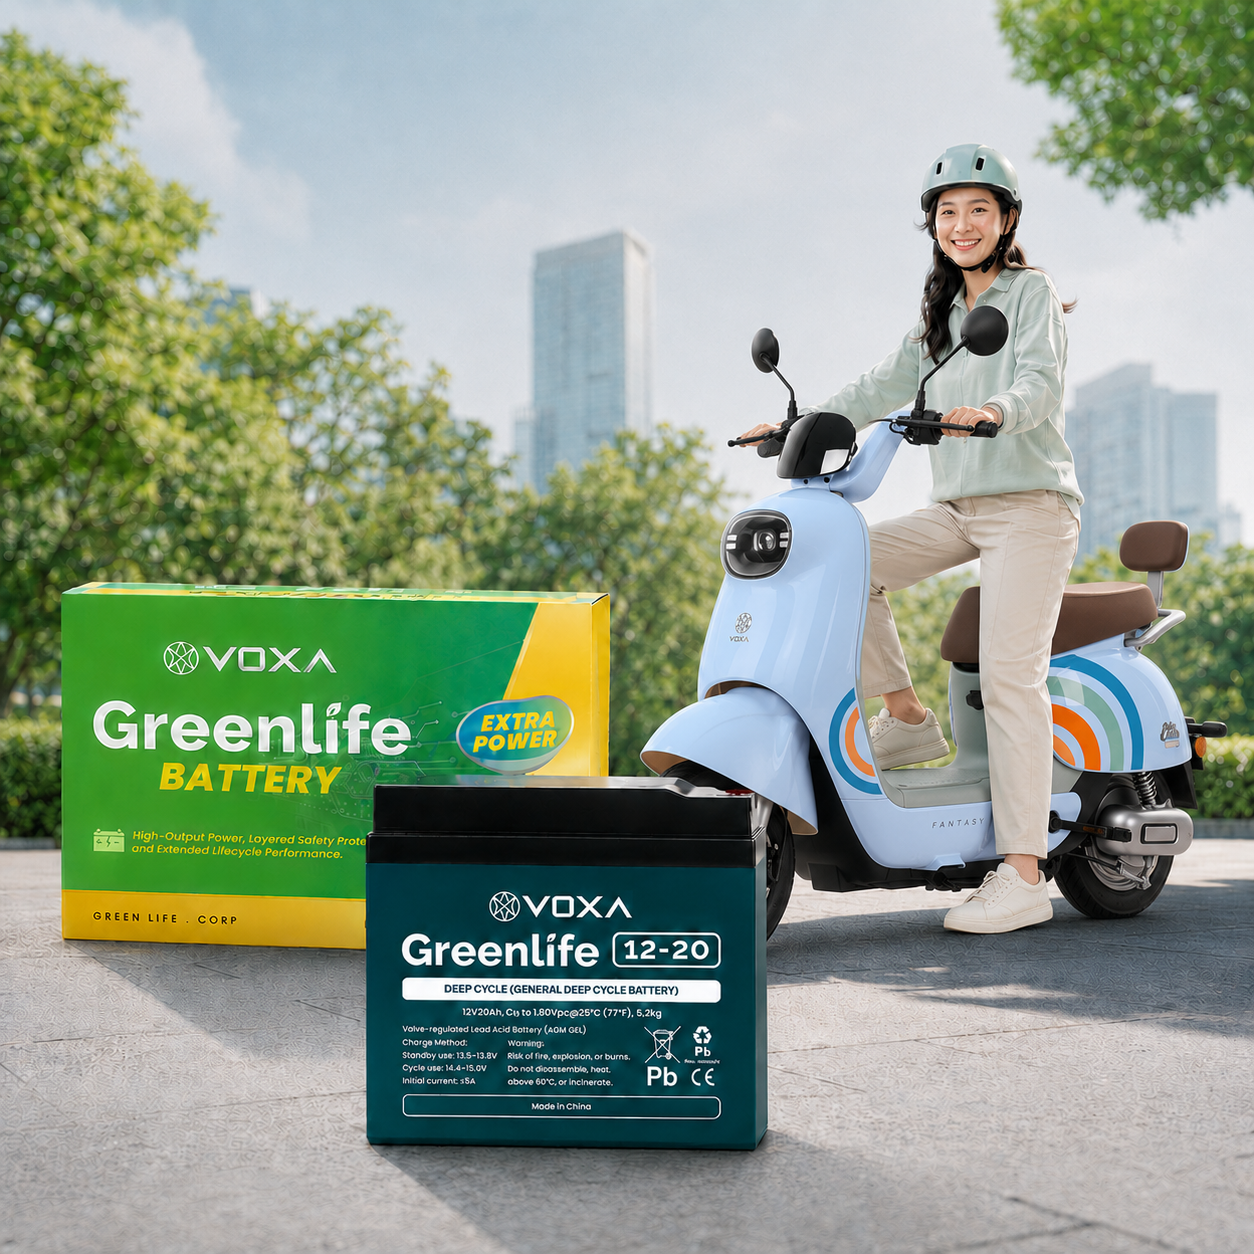
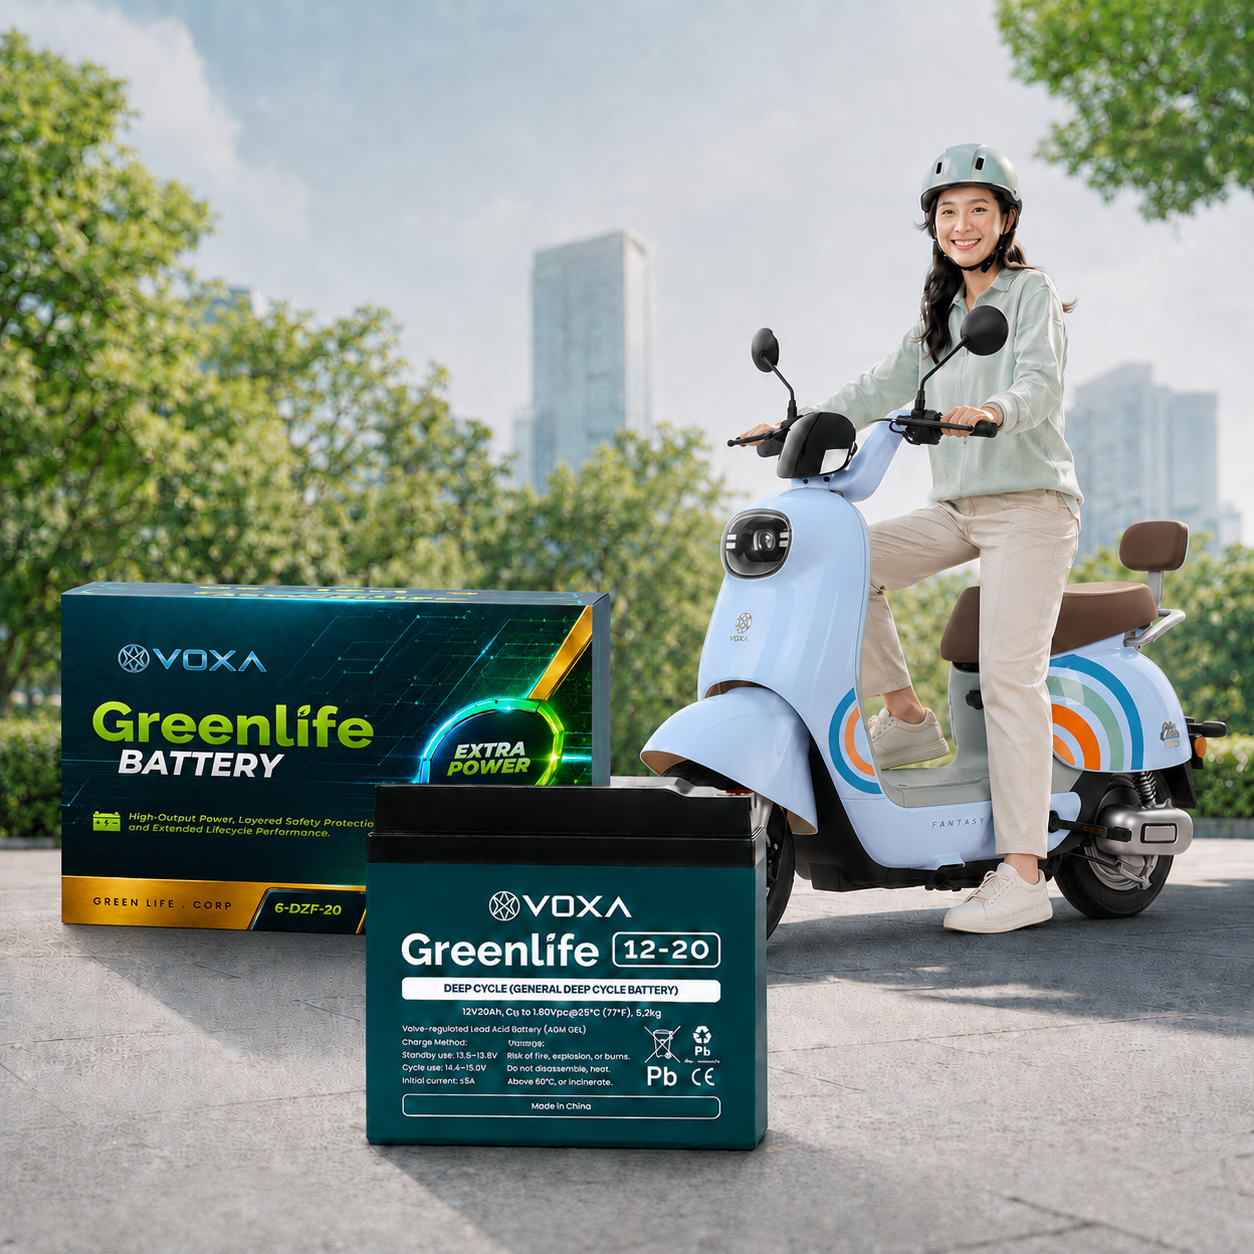
media(hero+products): refresh hero lifestyle + 4 foto produk ke design box baru
- Hero: lifestyle baru dengan model + moped biru + baterai 20AH & box
  Greenlife dark-industrial (v=3, 1254x1254)
- 4 varian pakai desain box baru (dark tech, green EXTRA POWER ring):
  * 3,05kg v=4 · 3,45kg v=5 · 3,75kg v=4 · 5,2kg v=3

diff --git a/index.html b/index.html
@@ -360,7 +360,7 @@ footer{padding:56px 0 40px;background:var(--forest);color:rgba(255,255,255,.72)}
       <div class="hero-visual hero-visual--mob" aria-hidden="true">
         <div class="hv-glow"></div>
         <div class="hv-main">
-          <img src="img/hero-lifestyle.png?v=2" alt="" />
+          <img src="img/hero-lifestyle.png?v=3" alt="" />
         </div>
       </div>
       <p class="hero-sub">
@@ -383,7 +383,7 @@ footer{padding:56px 0 40px;background:var(--forest);color:rgba(255,255,255,.72)}
     <div class="hero-visual hero-visual--desk" aria-hidden="true">
       <div class="hv-glow"></div>
       <div class="hv-main">
-        <img src="img/hero-lifestyle.png?v=2" alt="Pengguna sepeda listrik VOXA dengan baterai Greenlife 12V 20AH" />
+        <img src="img/hero-lifestyle.png?v=3" alt="Pengguna sepeda listrik VOXA dengan baterai Greenlife 12V 20AH" />
       </div>
     </div>
   </div>
@@ -476,7 +476,7 @@ footer{padding:56px 0 40px;background:var(--forest);color:rgba(255,255,255,.72)}
       <!-- Produk 1 -->
       <div class="product-card">
         <div class="visual has-real-photo">
-          <img src="img/battery-3kg-real.png?v=3" alt="Baterai Greenlife 3,05kg 12V 12AH dengan kemasan boks" loading="lazy" />
+          <img src="img/battery-3kg-real.png?v=4" alt="Baterai Greenlife 3,05kg 12V 12AH dengan kemasan boks" loading="lazy" />
         </div>
         <div class="tag-row">
           <span class="tag">12V</span>
@@ -509,7 +509,7 @@ footer{padding:56px 0 40px;background:var(--forest);color:rgba(255,255,255,.72)}
       <!-- Produk 2 -->
       <div class="product-card">
         <div class="visual has-real-photo">
-          <img src="img/battery-34kg-real.png?v=4" alt="Baterai Greenlife 3,45kg 12V 12AH dengan kemasan boks" loading="lazy" />
+          <img src="img/battery-34kg-real.png?v=5" alt="Baterai Greenlife 3,45kg 12V 12AH dengan kemasan boks" loading="lazy" />
         </div>
         <div class="tag-row">
           <span class="tag">12V</span>
@@ -542,7 +542,7 @@ footer{padding:56px 0 40px;background:var(--forest);color:rgba(255,255,255,.72)}
       <!-- Produk 3 -->
       <div class="product-card">
         <div class="visual has-real-photo">
-          <img src="img/battery-37kg-real.png?v=3" alt="Baterai Greenlife 3,75kg 12V 12AH dengan kemasan boks" loading="lazy" />
+          <img src="img/battery-37kg-real.png?v=4" alt="Baterai Greenlife 3,75kg 12V 12AH dengan kemasan boks" loading="lazy" />
         </div>
         <div class="tag-row">
           <span class="tag">12V</span>
@@ -576,7 +576,7 @@ footer{padding:56px 0 40px;background:var(--forest);color:rgba(255,255,255,.72)}
       <!-- Produk 4 -->
       <div class="product-card">
         <div class="visual has-real-photo">
-          <img src="img/battery-52kg-real.png?v=2" alt="Baterai Greenlife 5,2kg 12V 20AH dengan kemasan boks" loading="lazy" />
+          <img src="img/battery-52kg-real.png?v=3" alt="Baterai Greenlife 5,2kg 12V 20AH dengan kemasan boks" loading="lazy" />
         </div>
         <div class="tag-row">
           <span class="tag">12V</span>
